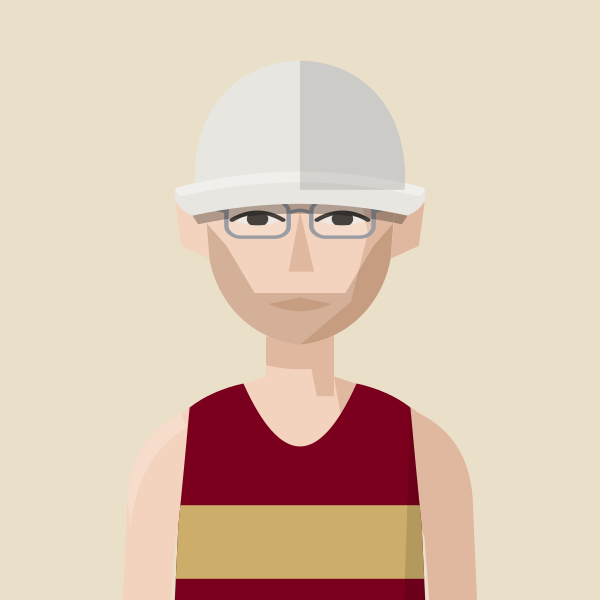
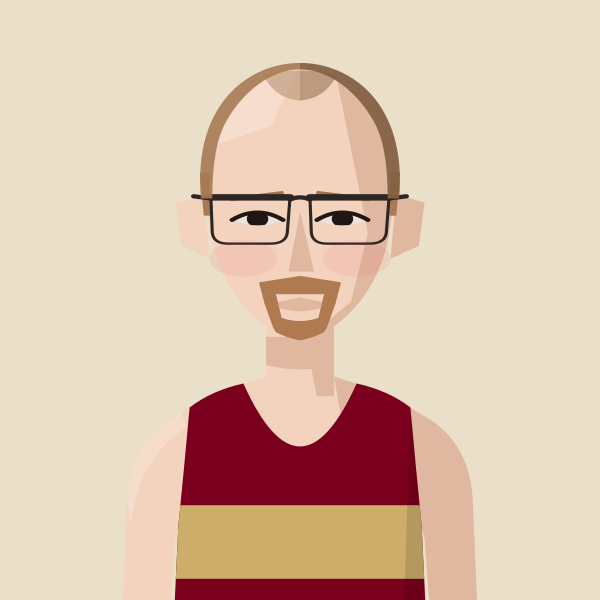
Portrait: Ollie Garrod redrawn (two-tone balding fuzz, heavy-topped glasses, goatee, thin sideburns)
Claude-Session: https://claude.ai/code/session_01MgmDWhFqnSSnP4iBLKXUZC

Changed region(s): [[0.27, 0.09, 0.72, 0.57]]

diff --git a/files/index.html b/files/index.html
@@ -787,7 +787,7 @@ const portraitFile=(name,club)=>{const k=normalizeNameForCompare(name||'').repla
 const portraitClubOf=(name,clubs)=>{for(const c of clubs||[]){if(c&&portraitFile(name,c))return c;}return null;}; /* first of these clubs we have a portrait for */
 // Athlete header figure: superstar portrait if we have one, else a grey runner in the club vest, else the plain vest icon
 // Changes whenever any portrait changes (set by tools/build_og.py), so browsers fetch fresh images instead of old cached ones
-const PORTRAIT_V='da31682d';const PORTRAIT_WOMEN='abbey-brooke,abbie-bulbulian,adele-prince,aimee-hargreaves,aisling-ahern,alex-brown,alex-gandee,alex-marginean,alex-miller,alexa-parker,alexandra-barbour,alice-braham,alice-bridger-morales,alice-crane,alice-martin,alice-reed,alice-smith,alison-purnell,alison-thomson,amelia-pettitt,amy-clements,andrea-barber,anika-schwarze-chintapatla,anna-garnier,anna-garnier-hw,anna-sharp,annabel-hobday,annabelle-hadlow,anne-hegvold,annmarie-seymour,ava-mcandie,becky-briggs,bethan-goddard,bethanie-murray,bethany-brown,betsy-griffiths,billie-mcclosky,camilla-barden,caoimhe-nic-fhogartaigh,carolyne-baxter,catherine-bryson,catherine-eastham,catherine-kandie,cathy-ansell,charlotte-griffiths,chloe-beckett,chloe-tighe,chrissie-wellington,claire-grima,clara-pettit,clare-elms,clare-pauzers,dillan-quinn,dorchie-cockerell,eilidh-hide,elinor-skinner,eliza-grant,elizabeth-apsley,elizabeth-stavreski,ella-fennelly,ella-king-powrie,ella-may-hards,ella-newton,ellen-weir,ellie-brown,ellie-freeden,eloise-bull,emilie-arnoux,emily-barrett,emily-bradley,emily-lowery,emily-robbins,emma-gordon,emma-howsham,emma-lord,emma-rowland,estle-viljoen,evie-warren,felicity-cole,felicity-harrison,felicity-hayward,fi-maddocks,fiona-de-mauny,florence-wiggins,gabby-collison,gabriel-reynolds,gemma-newport,genevieve-blanch,georgia-curry,georgie-bruinvels,georgie-fenn,georgie-furze,georgie-grgec,gina-galbraith,grace-leyland,grace-richardson,hannah-edwards,hannah-english,heather-statham,heather-statham-cc,helena-corbin,helena-keenan,holly-nixon,holly-pan,imogen-mackie,imogen-wolsey,iona-cousland,isabel-bradley,isabel-brinsden,isabelle-pickett,isobel-hodder,jennifer-nandi,jennifer-smith,jess-reed,jess-saunders,jess-winfield,jessica-davies,jessica-lowe,jodie-favell,josephine-rhodes,julia-bleasdale,julia-wedmore,juliet-hodder,jurgita-levertaviciute,justine-lynch,karen-fenner,karen-xiang,karina-box,kate-axford,kate-williams,kathy-sharpe,katie-ellen-french,katie-good,katie-snowden,katy-hedgethorne,kitty-shepherd-cross,kristina-popadich,lara-bromilow,lara-mangan,laura-goodson,laura-miles,lauren-major,lea-adamson,lily-newton,lisa-bailey,lisa-thomas,lisa-thomas-hw,lizzie-goldie-scot,louise-cooper,lucy-jones,lucy-macalister,lucy-peters,lydia-blackmore,lydia-gallyer-barnett,maddie-mastrolonardo,maddy-whitman,maeve-kenny,margaret-coogan,martina-conner,mary-james,mary-setyabule,matilde-lomba,megan-gildea,mel-wilkins,mhairi-hall,mimi-corden-lloyd,molly-oconnor,molly-smith,monika-gajek,naomi-lenane,natalie-beadle,natalie-seymour,natasha-lodge,niamh-thompson,nicky-hayes,nicola-cartlidge,nicola-douglas,nikki-sturzaker,olivia-papaioannou,olivia-stillman,orna-mcginley,pamela-mchutchon,patricia-walker,patrizia-gnoato,penny-oliver,rachel-brown,rebecca-barrow,rebekah-edgar,ruby-carter,ruby-whyte-wilding,ruby-woolfe,sally-urquhart,sam-whiting,samantha-munday,sarah-astin,sarah-dewhirst,sarah-grover,sarah-hanley,sarah-holt,sarah-murphy,sarah-palmer,sarah-palmer-ran,sarah-riceman,sarah-young,saron-haileselase,serena-carter,sophie-cowper,sophie-harris,sophie-hicks,sophie-tooley,stacey-ward,steph-hewitt,steph-mccall,steph-mccall-cc,steph-mccall-slh,steph-mitchell,suzanne-swaine,suze-spalding,suzie-harvey,suzy-whatmough,teresa-murphy,tilly-heaton,tilly-heaton-bel,tish-jones,vic-cartwright,vicky-clarke,victoria-barthelmess,victoria-buck,vikki-filsell,zoe-doyle,zoe-macdonald,zuzana-nemeckova';const PORTRAIT_MEN='aaron-wilson,abdulla-elsadig,adam-leane,adrian-major,adrien-royer,alan-black,alan-mead,alex-brecker,alex-bruce-littlewood,alex-gutteridge,alex-harris,alex-howard,alex-janiaud,alex-lee,alex-lennon,alex-mills,alex-milne,alex-morales,alex-robinson,alex-yee,alexander-marks,amittai-ben-israel,andrew-cumine,andrew-green,andrew-penney,andrew-perfect,andrew-simms,andrew-warburton,andrius-jaksevicius,andy-coley-maud,andy-coley-maud-cc,andy-fyfe,andy-north,andy-paton,andy-weir,angus-butler,angus-lamb,anisse-ismaili,arlo-ludewick,arne-dumez,arthur-peel,ashley-goncalves,barnaby-day,barry-collins,barry-sawyer,ben-clarke,ben-coughlan,ben-harding,ben-hurley,ben-ireland,ben-millar,ben-paviour,ben-pearce,ben-racle,ben-revill,ben-reynolds,ben-scott,ben-toomer,benedict-whitby,benjamin-hilson,bernie-ford,bill-kerr,bill-weller,bill-weller-wal,bob-harrison,bob-holt,bob-lunnon,bob-rayman,bob-smith,bradley-courtney-pinn,brandon-dewar,brian-gorman,brian-wilder,caleb-hathaway,callum-stewart,cameron-dockerill,cameron-reilly,carl-delaney,charles-herrington,charlie-dabbs,charlie-dickinson,charlie-eastaugh,charlie-manning,charlie-pickett,charlie-rogers,charlie-sandison,charlie-walker,charlie-wyllie,che-compton,chris-busaileh,chris-busaileh-hhh,chris-greenwood,chris-keavey,chris-moss,chris-steer,chris-threadgold,chris-warren,christian-lee,christopher-parker,clive-gilby,clive-shippen,colin-high,colin-pearson,conall-mcnally,conall-whelan,craig-ruddy,dame-dibaba,dan-cliffe,dan-pettitt,daniel-shaw,daniel-wolff,dave-beard,dave-beaver,dave-glassborow,dave-holt,dave-taylor,david-anderson,david-bowers,david-grima,david-north,david-ogden,david-symons,david-walsh,david-williams,deron-fagan,dick-piotrowski,dimos-evangelidis,dominic-kiralyfi,don-anderson,don-faircloth,don-maclean,doug-maughan,duncan-rimmer,dylan-evans,dylan-mitchard,ed-brewer,ed-catmur,ed-gibson,ed-mallett,eddie-herridge,eddie-jodrell,eddie-rolls,edward-chuck,eoin-brady,eoin-molloy,ethan-mccolgan,falilou-kebe,findlay-dyer,finn-johnson,fintan-pearce,frank-tickner,frank-ward,fred-paget,fred-slemeck,freddie-hessian,garret-lee,gary-ribbons,gary-ribbons-ee,gary-staines,gavin-eccles,geoff-biscoe,geoff-jerwood,geoff-north,george-cotton,george-gathercole,george-jackson,george-loxton,george-mallett,george-ogden,gerry-adams,gerry-north,glen-keegan,gordon-pearce,graham-macky,harrison-hayman,harry-guttridge,hector-revill,henry-hart,henry-silverstein,hugo-hewitt,huw-lobb,ian-acreman,ian-crowe-wright,ian-ellwood,ian-harkness,indy-barnes,isaac-lutaya,isaac-parker,jack-brotchie,jack-dickson,jack-dormer,jack-hampshire,jack-harrison,jack-hobden,jack-kavanagh,jack-millar,jack-ramm,jack-woods,jacob-brockmann,jake-simmonds,james-bartram,james-blackwood,james-bowler,james-estall,james-ewing,james-fox,james-hancock,james-harvey,james-hoad,james-kelly,james-mcmullan,james-murray,james-nutt,james-preston,james-roberts,james-stockings,james-ward,james-wootton,jamie-crowe,jamie-parkinson,jared-martin,jean-paul-wright,jeff-cunningham,jeremy-dempsey,jermaine-mays,jerry-watson,jim-allchin,jim-rimmer,joe-english,joe-hartley,john-baker,john-bicourt,john-bromley,john-davies,john-dear,john-foss,john-foxall,john-gilbert,john-gladwin,john-hutchins,john-kendall,john-kimaiyo,john-lee,john-lethbridge,john-mather,john-moore,john-roberts,john-sanderson,john-stow,john-sullivan,john-thresher,jon-hobbs,jon-pepper,jon-pepper-slh,jon-phillips,jon-solly,jonathan-cocker,jonathan-collier,jonathan-cornish,jonathan-ratcliffe,jonathan-tipper,jonathon-blackledge,jonny-neville,jonny-scott,jordan-weaver,josh-mitchell,josh-snow,josh-trigwell,jules-gevers,junior-galley,justin-chaston,justin-reid,kassa-tadesse,keith-newton,kevin-nash,kevin-quinn,kevin-sturman,kieran-barnes,kieran-white,knut-hegvold,knut-hegvold-bel,larry-ryan,lawrence-avery,lee-lintern,lewis-lloyd,liam-burthem,lionel-mann,lloyd-kempson,luke-caldwell,mack-downie,malachi-byansi,marcello-bizio,marcelo-fortes,marco-mazzotta,mark-anderson,mark-miles,mark-sinclair,mark-tennyson,mark-waller,martin-dent,martin-lake,martin-lewington,martin-shore,mathew-speed,matt-chaston,matt-jones,matt-wood,matthew-edgar,matthew-houchell,matthew-thomas,matthew-varley,max-bloor,max-heyden,max-milarvie,max-nicholls,michael-baker,michael-mccarthy,mick-woods,mike-beevor,mike-boyle,mike-cummings,mike-farmery,mike-fuller,mike-hayes,mike-kortenray,mike-nouch,mohammed-ismail,monty-hudson,morgan-roberts,nathan-visick,neil-chisholm,neil-phillips,neil-speaight,neil-wilson,nic-lukies,nick-acfield,nick-altmann,nick-bester,nick-bester-hhh,nick-buckle,nick-bundle,nick-goolab,nick-lightfoot,nick-morris,nick-torry,noah-fernandez,norman-stairs,oli-carrington,oliver-carrington,oliver-fox,oliver-reynolds,oliver-young,ollie-foote,ollie-garrod,olly-buck,owen-hind,paddy-roddy,pancho-panchev,paskar-owor,pat-newell,patrick-mcdougall,paul-calver,paul-cheetham,paul-freary,paul-magner,paul-pollock,paul-sanderson,paul-sanderson-wok,pete-carton,pete-gardner,peter-clarke,peter-giles,peter-giles-thh,peter-lighting,phil-carstairs,phil-sanders,phil-sesemann,phil-swinburn,phil-wicks,phil-woodford-smith,raj-paranandi,ralph-street,ranjit-bhatia,ray-foley,reece-edwards,rhys-boorman,rian-mccawley,richard-ashe,richard-giles,richard-henderson,richard-langley,richard-mcdowell,richard-ollington,richard-partridge,richard-sun,richard-ward,rob-armstrong,rob-kelly,rob-tuer,robert-elphick,robert-laing,robert-norville,robert-peacock,robert-sesemann,robin-boon,robin-hudson,roger-alsop,roger-alsop-bel,ron-clark,ron-linstead,ronan-tanguy,rory-mcmahon,rory-orsborn,ross-braden,ross-christie,rowan-board,rowan-crichton,russell-dessaix-chin,ryan-hickey,ryan-mccallister,sam-bramwell,sam-charlton,sam-gebreselassie,sam-haughian,sam-peters,sam-sommerville,sam-tyas,samuel-dames,samuel-wilcock,sean-cordon,sebastian-anthony,simon-baines,simon-coombes,simon-coppard,simon-holmes,simon-rayner,simon-rayner-hw,simon-wade,simon-wade-hhh,simon-waterhouse,simon-williams,simon-wurr,sonny-nicoll,spencer-barden,stephen-mcleod,stephen-sharp,steve-gardner,steve-jones,steve-smythe,steve-smythe-hhh,stuart-beaney,stuart-major,stuart-major-thh,stuart-mccallum,stuart-paton,terry-booth,thomas-dugre,thomas-gandee,thomas-gardner,thomas-renshaw,tim-alexander,tim-eglen,tim-lawrence,tim-watson,toby-cooke,toby-fletcher,tom-austin,tom-cheetham,tom-conlon,tom-davies,tom-gifford,tom-higgs,tom-jervis,tom-lole,tom-south,tom-thornley,tommy-taylor,tony-binda,tony-fairclough,tony-harran,trevor-hart,valdis-pauzers,valentin-rigori,vic-maughan,wayne-oxborough,will-cockerell,will-lewis,will-marshall,will-scott,will-stockley,william-gardner,yacin-yusuf,zach-nolan';
+const PORTRAIT_V='9e3172cc';const PORTRAIT_WOMEN='abbey-brooke,abbie-bulbulian,adele-prince,aimee-hargreaves,aisling-ahern,alex-brown,alex-gandee,alex-marginean,alex-miller,alexa-parker,alexandra-barbour,alice-braham,alice-bridger-morales,alice-crane,alice-martin,alice-reed,alice-smith,alison-purnell,alison-thomson,amelia-pettitt,amy-clements,andrea-barber,anika-schwarze-chintapatla,anna-garnier,anna-garnier-hw,anna-sharp,annabel-hobday,annabelle-hadlow,anne-hegvold,annmarie-seymour,ava-mcandie,becky-briggs,bethan-goddard,bethanie-murray,bethany-brown,betsy-griffiths,billie-mcclosky,camilla-barden,caoimhe-nic-fhogartaigh,carolyne-baxter,catherine-bryson,catherine-eastham,catherine-kandie,cathy-ansell,charlotte-griffiths,chloe-beckett,chloe-tighe,chrissie-wellington,claire-grima,clara-pettit,clare-elms,clare-pauzers,dillan-quinn,dorchie-cockerell,eilidh-hide,elinor-skinner,eliza-grant,elizabeth-apsley,elizabeth-stavreski,ella-fennelly,ella-king-powrie,ella-may-hards,ella-newton,ellen-weir,ellie-brown,ellie-freeden,eloise-bull,emilie-arnoux,emily-barrett,emily-bradley,emily-lowery,emily-robbins,emma-gordon,emma-howsham,emma-lord,emma-rowland,estle-viljoen,evie-warren,felicity-cole,felicity-harrison,felicity-hayward,fi-maddocks,fiona-de-mauny,florence-wiggins,gabby-collison,gabriel-reynolds,gemma-newport,genevieve-blanch,georgia-curry,georgie-bruinvels,georgie-fenn,georgie-furze,georgie-grgec,gina-galbraith,grace-leyland,grace-richardson,hannah-edwards,hannah-english,heather-statham,heather-statham-cc,helena-corbin,helena-keenan,holly-nixon,holly-pan,imogen-mackie,imogen-wolsey,iona-cousland,isabel-bradley,isabel-brinsden,isabelle-pickett,isobel-hodder,jennifer-nandi,jennifer-smith,jess-reed,jess-saunders,jess-winfield,jessica-davies,jessica-lowe,jodie-favell,josephine-rhodes,julia-bleasdale,julia-wedmore,juliet-hodder,jurgita-levertaviciute,justine-lynch,karen-fenner,karen-xiang,karina-box,kate-axford,kate-williams,kathy-sharpe,katie-ellen-french,katie-good,katie-snowden,katy-hedgethorne,kitty-shepherd-cross,kristina-popadich,lara-bromilow,lara-mangan,laura-goodson,laura-miles,lauren-major,lea-adamson,lily-newton,lisa-bailey,lisa-thomas,lisa-thomas-hw,lizzie-goldie-scot,louise-cooper,lucy-jones,lucy-macalister,lucy-peters,lydia-blackmore,lydia-gallyer-barnett,maddie-mastrolonardo,maddy-whitman,maeve-kenny,margaret-coogan,martina-conner,mary-james,mary-setyabule,matilde-lomba,megan-gildea,mel-wilkins,mhairi-hall,mimi-corden-lloyd,molly-oconnor,molly-smith,monika-gajek,naomi-lenane,natalie-beadle,natalie-seymour,natasha-lodge,niamh-thompson,nicky-hayes,nicola-cartlidge,nicola-douglas,nikki-sturzaker,olivia-papaioannou,olivia-stillman,orna-mcginley,pamela-mchutchon,patricia-walker,patrizia-gnoato,penny-oliver,rachel-brown,rebecca-barrow,rebekah-edgar,ruby-carter,ruby-whyte-wilding,ruby-woolfe,sally-urquhart,sam-whiting,samantha-munday,sarah-astin,sarah-dewhirst,sarah-grover,sarah-hanley,sarah-holt,sarah-murphy,sarah-palmer,sarah-palmer-ran,sarah-riceman,sarah-young,saron-haileselase,serena-carter,sophie-cowper,sophie-harris,sophie-hicks,sophie-tooley,stacey-ward,steph-hewitt,steph-mccall,steph-mccall-cc,steph-mccall-slh,steph-mitchell,suzanne-swaine,suze-spalding,suzie-harvey,suzy-whatmough,teresa-murphy,tilly-heaton,tilly-heaton-bel,tish-jones,vic-cartwright,vicky-clarke,victoria-barthelmess,victoria-buck,vikki-filsell,zoe-doyle,zoe-macdonald,zuzana-nemeckova';const PORTRAIT_MEN='aaron-wilson,abdulla-elsadig,adam-leane,adrian-major,adrien-royer,alan-black,alan-mead,alex-brecker,alex-bruce-littlewood,alex-gutteridge,alex-harris,alex-howard,alex-janiaud,alex-lee,alex-lennon,alex-mills,alex-milne,alex-morales,alex-robinson,alex-yee,alexander-marks,amittai-ben-israel,andrew-cumine,andrew-green,andrew-penney,andrew-perfect,andrew-simms,andrew-warburton,andrius-jaksevicius,andy-coley-maud,andy-coley-maud-cc,andy-fyfe,andy-north,andy-paton,andy-weir,angus-butler,angus-lamb,anisse-ismaili,arlo-ludewick,arne-dumez,arthur-peel,ashley-goncalves,barnaby-day,barry-collins,barry-sawyer,ben-clarke,ben-coughlan,ben-harding,ben-hurley,ben-ireland,ben-millar,ben-paviour,ben-pearce,ben-racle,ben-revill,ben-reynolds,ben-scott,ben-toomer,benedict-whitby,benjamin-hilson,bernie-ford,bill-kerr,bill-weller,bill-weller-wal,bob-harrison,bob-holt,bob-lunnon,bob-rayman,bob-smith,bradley-courtney-pinn,brandon-dewar,brian-gorman,brian-wilder,caleb-hathaway,callum-stewart,cameron-dockerill,cameron-reilly,carl-delaney,charles-herrington,charlie-dabbs,charlie-dickinson,charlie-eastaugh,charlie-manning,charlie-pickett,charlie-rogers,charlie-sandison,charlie-walker,charlie-wyllie,che-compton,chris-busaileh,chris-busaileh-hhh,chris-greenwood,chris-keavey,chris-moss,chris-steer,chris-threadgold,chris-warren,christian-lee,christopher-parker,clive-gilby,clive-shippen,colin-high,colin-pearson,conall-mcnally,conall-whelan,craig-ruddy,dame-dibaba,dan-cliffe,dan-pettitt,daniel-shaw,daniel-wolff,dave-beard,dave-beaver,dave-glassborow,dave-holt,dave-taylor,david-anderson,david-bowers,david-grima,david-north,david-ogden,david-symons,david-walsh,david-williams,deron-fagan,dick-piotrowski,dimos-evangelidis,dominic-kiralyfi,don-anderson,don-faircloth,don-maclean,doug-maughan,duncan-rimmer,dylan-evans,dylan-mitchard,ed-brewer,ed-catmur,ed-gibson,ed-mallett,eddie-herridge,eddie-jodrell,eddie-rolls,edward-chuck,eoin-brady,eoin-molloy,ethan-mccolgan,falilou-kebe,findlay-dyer,finn-johnson,fintan-pearce,frank-tickner,frank-ward,fred-paget,fred-slemeck,freddie-hessian,garret-lee,gary-ribbons,gary-ribbons-ee,gary-staines,gavin-eccles,geoff-biscoe,geoff-jerwood,geoff-north,george-cotton,george-gathercole,george-jackson,george-loxton,george-mallett,george-ogden,gerry-adams,gerry-north,glen-keegan,gordon-pearce,graham-macky,harrison-hayman,harry-guttridge,hector-revill,henry-hart,henry-silverstein,hugo-hewitt,huw-lobb,ian-acreman,ian-crowe-wright,ian-ellwood,ian-harkness,indy-barnes,isaac-lutaya,isaac-parker,jack-brotchie,jack-dickson,jack-dormer,jack-hampshire,jack-harrison,jack-hobden,jack-kavanagh,jack-millar,jack-ramm,jack-woods,jacob-brockmann,jake-simmonds,james-bartram,james-blackwood,james-bowler,james-estall,james-ewing,james-fox,james-hancock,james-harvey,james-hoad,james-kelly,james-mcmullan,james-murray,james-nutt,james-preston,james-roberts,james-stockings,james-ward,james-wootton,jamie-crowe,jamie-parkinson,jared-martin,jean-paul-wright,jeff-cunningham,jeremy-dempsey,jermaine-mays,jerry-watson,jim-allchin,jim-rimmer,joe-english,joe-hartley,john-baker,john-bicourt,john-bromley,john-davies,john-dear,john-foss,john-foxall,john-gilbert,john-gladwin,john-hutchins,john-kendall,john-kimaiyo,john-lee,john-lethbridge,john-mather,john-moore,john-roberts,john-sanderson,john-stow,john-sullivan,john-thresher,jon-hobbs,jon-pepper,jon-pepper-slh,jon-phillips,jon-solly,jonathan-cocker,jonathan-collier,jonathan-cornish,jonathan-ratcliffe,jonathan-tipper,jonathon-blackledge,jonny-neville,jonny-scott,jordan-weaver,josh-mitchell,josh-snow,josh-trigwell,jules-gevers,junior-galley,justin-chaston,justin-reid,kassa-tadesse,keith-newton,kevin-nash,kevin-quinn,kevin-sturman,kieran-barnes,kieran-white,knut-hegvold,knut-hegvold-bel,larry-ryan,lawrence-avery,lee-lintern,lewis-lloyd,liam-burthem,lionel-mann,lloyd-kempson,luke-caldwell,mack-downie,malachi-byansi,marcello-bizio,marcelo-fortes,marco-mazzotta,mark-anderson,mark-miles,mark-sinclair,mark-tennyson,mark-waller,martin-dent,martin-lake,martin-lewington,martin-shore,mathew-speed,matt-chaston,matt-jones,matt-wood,matthew-edgar,matthew-houchell,matthew-thomas,matthew-varley,max-bloor,max-heyden,max-milarvie,max-nicholls,michael-baker,michael-mccarthy,mick-woods,mike-beevor,mike-boyle,mike-cummings,mike-farmery,mike-fuller,mike-hayes,mike-kortenray,mike-nouch,mohammed-ismail,monty-hudson,morgan-roberts,nathan-visick,neil-chisholm,neil-phillips,neil-speaight,neil-wilson,nic-lukies,nick-acfield,nick-altmann,nick-bester,nick-bester-hhh,nick-buckle,nick-bundle,nick-goolab,nick-lightfoot,nick-morris,nick-torry,noah-fernandez,norman-stairs,oli-carrington,oliver-carrington,oliver-fox,oliver-reynolds,oliver-young,ollie-foote,ollie-garrod,olly-buck,owen-hind,paddy-roddy,pancho-panchev,paskar-owor,pat-newell,patrick-mcdougall,paul-calver,paul-cheetham,paul-freary,paul-magner,paul-pollock,paul-sanderson,paul-sanderson-wok,pete-carton,pete-gardner,peter-clarke,peter-giles,peter-giles-thh,peter-lighting,phil-carstairs,phil-sanders,phil-sesemann,phil-swinburn,phil-wicks,phil-woodford-smith,raj-paranandi,ralph-street,ranjit-bhatia,ray-foley,reece-edwards,rhys-boorman,rian-mccawley,richard-ashe,richard-giles,richard-henderson,richard-langley,richard-mcdowell,richard-ollington,richard-partridge,richard-sun,richard-ward,rob-armstrong,rob-kelly,rob-tuer,robert-elphick,robert-laing,robert-norville,robert-peacock,robert-sesemann,robin-boon,robin-hudson,roger-alsop,roger-alsop-bel,ron-clark,ron-linstead,ronan-tanguy,rory-mcmahon,rory-orsborn,ross-braden,ross-christie,rowan-board,rowan-crichton,russell-dessaix-chin,ryan-hickey,ryan-mccallister,sam-bramwell,sam-charlton,sam-gebreselassie,sam-haughian,sam-peters,sam-sommerville,sam-tyas,samuel-dames,samuel-wilcock,sean-cordon,sebastian-anthony,simon-baines,simon-coombes,simon-coppard,simon-holmes,simon-rayner,simon-rayner-hw,simon-wade,simon-wade-hhh,simon-waterhouse,simon-williams,simon-wurr,sonny-nicoll,spencer-barden,stephen-mcleod,stephen-sharp,steve-gardner,steve-jones,steve-smythe,steve-smythe-hhh,stuart-beaney,stuart-major,stuart-major-thh,stuart-mccallum,stuart-paton,terry-booth,thomas-dugre,thomas-gandee,thomas-gardner,thomas-renshaw,tim-alexander,tim-eglen,tim-lawrence,tim-watson,toby-cooke,toby-fletcher,tom-austin,tom-cheetham,tom-conlon,tom-davies,tom-gifford,tom-higgs,tom-jervis,tom-lole,tom-south,tom-thornley,tommy-taylor,tony-binda,tony-fairclough,tony-harran,trevor-hart,valdis-pauzers,valentin-rigori,vic-maughan,wayne-oxborough,will-cockerell,will-lewis,will-marshall,will-scott,will-stockley,william-gardner,yacin-yusuf,zach-nolan';
 // Runners whose dog pops up on their own profile page (a -dog.svg version of their portrait)
 const PROFILE_DOGS=new Set(['john-sanderson','penny-oliver','james-hancock','angus-butler']);
 const AthletePortrait=({name,club,w,fill,onClick,blink})=>{const[failed,setFailed]=useState(false);const file=portraitFile(name,club);const src0=file?`/portraits/athletes/${file}.svg?v=${PORTRAIT_V}`:PORTRAIT_CLUBS.has(club)?`/portraits/clubs/${club.replace(/\//g,'').replace(/&/g,'and')}.svg?v=${PORTRAIT_V}`:null;const blinkSrc=useBlinkSrc(file?(PROFILE_DOGS.has(file)?`/portraits/athletes/${file}-dog.svg?v=${PORTRAIT_V}`:src0):null,!!blink);const src=blinkSrc||src0;if(!src||failed)return<div onClick={onClick} className={onClick?'cursor-pointer':''}><ClubShield club={club} size={w}/></div>;const h=Math.round(w*148/126),ih=Math.round(w*1.4);if(fill)return<div onClick={onClick} className="cursor-pointer" style={{alignSelf:'stretch',minHeight:h,aspectRatio:'126 / 148',flexShrink:0,position:'relative',borderRadius:4,overflow:'hidden'}}><img src={src} alt={file?`Portrait of ${name.replace(/\s*\([^)]*\)$/,'')}`:`Runner in ${CLUBS[club]?.name||club} vest`} style={{position:'absolute',top:0,left:0,display:'block',width:'100%',height:'auto'}} onError={()=>setFailed(true)}/></div>;return<div style={{width:w,height:h,borderRadius:4,overflow:'hidden',flexShrink:0}}><img src={src} alt={file?`Portrait of ${name.replace(/\s*\([^)]*\)$/,'')}`:`Runner in ${CLUBS[club]?.name||club} vest`} width={w} height={ih} style={{display:'block',width:w,height:ih}} onError={()=>setFailed(true)}/></div>;};

diff --git a/tools/gen_portraits.py b/tools/gen_portraits.py
@@ -1772,4 +1772,24 @@ def mouth(svg, width=1.0, full=1.0):
 # tapering to the temples, dark-blonde hair sleeked back from a centre parting with silver slides into a ponytail, small gold hoops,
 # a slightly wider, fuller mouth, flushed
 save("emma-gordon", mouth(taperbrows(hairclips(earrings(brows(eyes(figure("BEL", skin=1, hair="ponytail", hair_colour="#9A7B58", brow_colour="#6B4E3A", rosy=True), "small", 1.5), 0, 1.5, 4).replace('r="3.8"', 'r="3.2"')))), 1.1, 1.3))
+# ---- Two-tone balding fuzz, heavy-topped glasses, thin sideburns (Oct 2026, first used for Ollie Garrod) ----
+import re as _rg
+HAIR["fuzzbald"] = ('<path opacity=".9" d="M65,102 C62,58 82,39 100,39 C118,39 138,58 135,102 L131,102 C131,86 129.5,74 126,66 C120,52 110,42 100,42 C90,42 80,52 74,66 C70.5,74 69,86 69,102 Z"/>'
+    '<path opacity=".45" d="M87,44.5 Q100,40.5 113,44.5 Q109,55.5 100,56.5 Q91,55.5 87,44.5 Z"/>')  # very short sides continuing finely over a bald top, joined to a lighter island at the front of the crown
+def _after_lids(svg, extra):
+    """Insert extra shapes right after the eyelid lines, so they share the eyes' coordinates (the face is squashed vertically)."""
+    m = _rg.search(r'<g fill="none" stroke="#[0-9A-Fa-f]{6}" stroke-width="1.8" stroke-linecap="round"><path d="M[67][^"]*"/>(?:(?!</g>).)*</g>', svg)
+    return svg[:m.end()] + extra + svg[m.end():] if m else svg
+def browglasses(svg, col="#2E2622"):
+    """Soft rectangular glasses, wider than tall, with a heavy top rim and fine lower rims."""
+    lens = lambda x: f'<path d="M{x},101 L{x+28},101 L{x+27},118 Q{x+26.5},123 {x+21},123 L{x+6},123 Q{x+1},123 {x+0.5},118 Z"/>'
+    return _after_lids(svg, f'<g fill="none" stroke="{col}" stroke-width="1.1" stroke-linejoin="round">{lens(68.5)}{lens(103.5)}</g>'
+        f'<g fill="none" stroke="{col}" stroke-width="3" stroke-linecap="round"><path d="M68.5,101.5 L96.5,101.5"/><path d="M103.5,101.5 L131.5,101.5"/><path d="M96.5,102.5 Q100,100.5 103.5,102.5" stroke-width="2"/>'
+        f'<path d="M68.5,102 L62.5,101" stroke-width="2"/><path d="M131.5,102 L137.5,101" stroke-width="2"/></g>')
+def thinsideburns(svg, col):
+    """Thin, short sideburns in front of the ears."""
+    return _after_lids(svg, f'<g fill="{col}"><path d="M64.6,90 L68,90 L68.4,110 L66,110 Z"/><path d="M135.4,90 L132,90 L131.6,110 L134,110 Z"/></g>')
+# Ollie Garrod (BEL), redrawn Oct 2026: very short light ginger-brown hair, balding with a small island at the front of the crown,
+# heavy-topped rectangular glasses, thin sideburns, ginger moustache and chin beard around the mouth only, thin light brows, long narrow face
+save("ollie-garrod", thinsideburns(browglasses(eyes(figure("BEL", skin=1, hair="fuzzbald", hair_colour="#A87A55", brow_colour="#9C7250", thin_brows=True, jaw="narrow", rosy=True, facial="fullgoatee", facial_colour="#B07A50"), None)), "#A87A55"))
 export_site()
